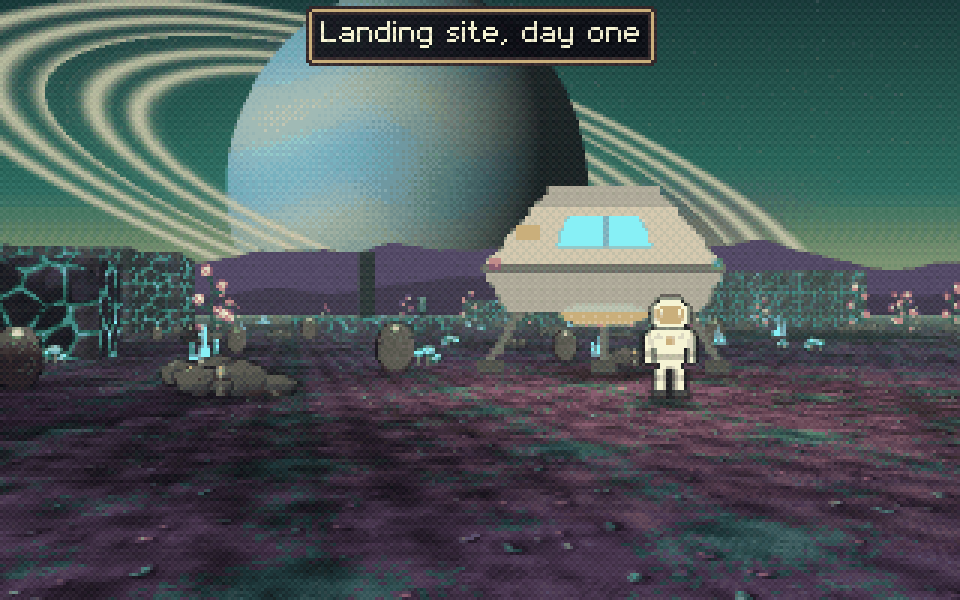
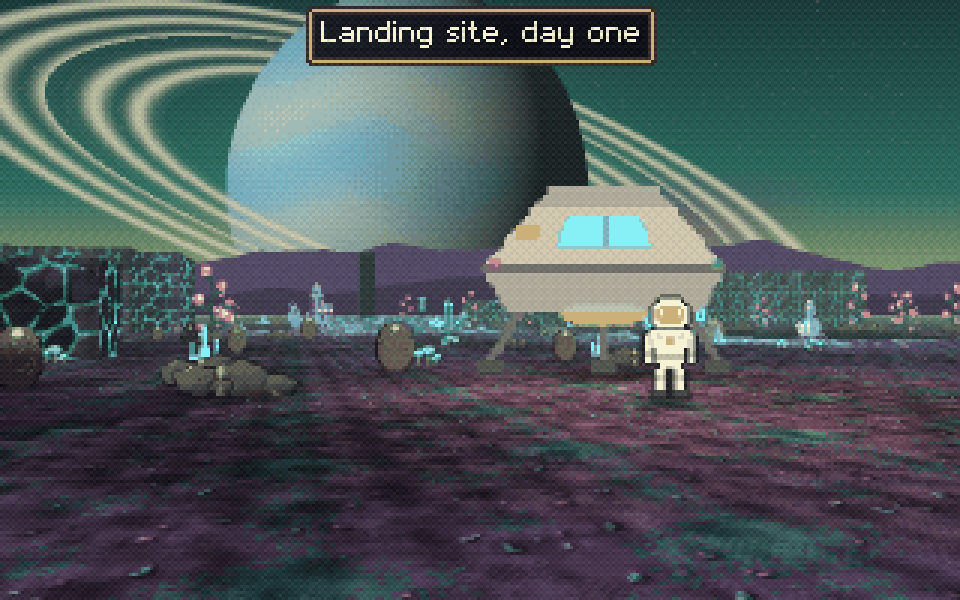
The alien world's crystals in 3D, framing the monolith
The alien landing site's two billboard crystals by the glowing pool are
crystal clusters in 3D now, cyan and violet, and two more stand at the
foot of the monolith's plateau - the monolith shot is framed by them,
their light on the step, every facet bending the view behind it.

Changed region(s): [[0.2188, 0.48, 0.6875, 0.57], [0.7188, 0.51, 1.0, 0.6]]

diff --git a/examples/alien_world.py b/examples/alien_world.py
@@ -2,7 +2,8 @@
 
 Shows the `alien` sky with `sky_objects` (a ringed gas giant and two moons), an alien sun casting
 long shadows, a purple mountain skyline, glowing `alien_rock` outcrops, a reflective pool, the
-`alien` scatter set, and a raised plateau with steps (`heights`) carrying a monolith.
+`alien` scatter set, and a raised plateau with steps (`heights`) carrying a monolith; crystals in 3D
+(`crystal_cluster` objects) by the glowing pool and flanking the plateau's step, bending the light.
 Run:  python alien_world.py  -> writes alien_world.json
 """
 import os
@@ -62,8 +63,11 @@ s = scene(
         {'id': 'native', 'x': 15.2, 'y': 12.3, 'type': 'alien'},
         {'x': 19.4, 'y': 18.4, 'type': 'alien_plant'}, {'x': 25.8, 'y': 21.0, 'type': 'alien_plant', 'scale': 1.2},
         {'x': 24.4, 'y': 17.4, 'type': 'alien_plant', 'scale': 0.8, 'flip': True},
-        {'x': 20.0, 'y': 23.4, 'type': 'crystal', 'scale': 0.5}, {'x': 18.8, 'y': 21.2, 'type': 'crystal'},
     ],
+    # crystals in 3D, every facet bending the light: by the glowing pool, and flanking the plateau's step
+    objects=[{'type': 'crystal_cluster', 'x': x, 'y': y, 'color': c, 'size': sz, 'count': n, 'seed': k}
+             for k, (x, y, c, sz, n) in enumerate(((19.0, 21.4, 'cyan', 1.3, 6), (20.4, 23.7, 'violet', 0.8, 4),
+                                                   (11.7, 15.1, 'violet', 1.4, 7), (15.4, 15.2, 'cyan', 1.0, 5)))],
     scatter=[{'of': 'alien', 'on': '.', 'density': 0.16, 'clump': 1.4, 'sizes': ['small', 'medium', 'large'],
               'seed': 6}],
     camera={'x': 11.0, 'y': 34.0, 'look_at': [15.0, 20.0, 0.8], 'fov': 72},

diff --git a/docs/ASSETS.md b/docs/ASSETS.md
@@ -915,7 +915,7 @@ Things too big for a billboard, built in 3D out of flat panels (`scripts/objects
 | `boulder` | good | aquarium, autumn_lane, coast_lighthouse, crystal_cave, kelp_forest, misty_moor, neon_bar, red_canyon, winter_lake, winter_woods, woodland_night | A low-poly mass, every face a triangle: an irregular foot, a belly, drawn-in shoulders, a peak off its centre; closed from every side. Plants on top by count. |
 | `column` | good | ancient_ruins, castle_keep, cathedral_ruin, gold_mine, hall_of_doors, sky_islands, temple_inside, tropical_beach | A column or a post: a prism of `sides` faces (an octagon by default), tapering if `top` is under 1, a plinth (`base`) and a capital if asked; stone cut from the solid rock as rock is, or `wood` - weathered timber, the grain running up it, dark and grown over below `wet` where it stands in water. Built for the pier's piles first; the cathedral's piers are `ashlar` (dressed stone in drums) with plinths and capitals, one `broken` off ragged. The ruins' columns are Greek: `flutes` (20 faces, each hollowed, so it takes the light on one side and shadow on the other) and `doric` (an echinus widening under a square abacus), in `marble` laid in drums; `fill` lifts a backlit column's dark side. |
 | `beam` | good | ancient_ruins, castle_keep, cathedral_ruin, drowned_library, gold_mine, hall_of_doors, sky_islands, temple_inside | A squared timber or stone lintel lying level, `length` along the way it faces, its underside at the placement's `z`; timber's grain runs along it. Wall plates on the cathedral's piers, and one fallen on the floor; the architraves and cornices over the ruins' columns. |
-| `crystal_cluster` | good | crystal_cave | The user's idea: crystals whose facets refract. Hexagonal prisms with pointed tips from a bed of rock, every facet a panel with its own clarity (clear across the middle, milky toward the base, bright edges) and its own bend: drawn with the glass, each facet shows the frame drawn so far shifted by one offset from the way it is turned (Renderer._bend), so it shows one coherent piece of what is behind, the colours parting a little at the edges. Strongest with glowing things behind. |
+| `crystal_cluster` | good | alien_world, crystal_cave | The user's idea: crystals whose facets refract. Hexagonal prisms with pointed tips from a bed of rock, every facet a panel with its own clarity (clear across the middle, milky toward the base, bright edges) and its own bend: drawn with the glass, each facet shows the frame drawn so far shifted by one offset from the way it is turned (Renderer._bend), so it shows one coherent piece of what is behind, the colours parting a little at the edges. Strongest with glowing things behind. |
 
 ### Not yet sorted
 
@@ -1115,7 +1115,7 @@ The environments, judged on their gallery images and shots.
 | `space_station` | good | 3 | station_deck, station_corridor |  |
 | `derelict_ship` | good | 3 | derelict_corridor, derelict_hive |  |
 | `orbital_hangar` | good | 4 | hangar_bay, hangar_control, hangar_reactor, hangar_pilot | A shuttle bay in orbit, its control room and the reactor: the scifi.py hardware, glass panes between mullions onto space and a ringed planet, a window onto the bay, cyan haze and red alarm light. |
-| `alien_world` | good | 3 | alien_landing, alien_monolith |  |
+| `alien_world` | good | 3 | alien_landing, alien_monolith | Its two billboard crystals are `crystal_cluster`s in 3D now, with two more flanking the plateau: the monolith shot is framed in violet and cyan crystal. |
 | `moon_base` | good | 4 | moon_base, moon_rover, moon_night, moon_earth | Greenhouse domes and habitat modules on the grey plain under the Earth: day, the rover, the lunar night, Earthrise over the domes. |
 | `dream_world` | good | 3 | dream_stair, dream_mirror | Islands in a pastel sky, each with a `keel` of rock in 3D under its cliff; the stair shot is taken from out over the void, so the island floats; chess pieces in 3D on the chequered island. |
 | `dream_chess` | good | 4 | dream_plain, dream_door, dream_hole, dream_clock | A giant chess game in 3D (`chess_piece`, polished white and black marble, mirrored in the floor) on a floating plain of checker_marble under a melting sky clock: arches and stairs in the air, a stair up to a lone door, a hole onto the sky. |
@@ -1159,6 +1159,7 @@ The environments, judged on their gallery images and shots.
 ## Pass log
 
 - **2026-10-19, pass 0.** First full review of every asset, on review sheets and in the gallery. This file and `docs/asset_review.py` were added.
+- **2026-10-21, alien crystals.** The alien world's two billboard crystals by the glowing pool became `crystal_cluster`s in 3D, cyan and violet, and two more stand at the foot of the plateau's step - the monolith shot is framed by them, their light on the step, every facet bending the view. (The waterway's rowboat was tried as a small `ship_hull` and kept as the billboard: seen at that distance the drawn boat, oars and all, reads better.)
 - **2026-10-21, the great hall.** The castle's throne room had square pillars of wall cells, out of both gallery shots. They are round now - 12-sided `column`s of `ashlar` with bases and capitals - with timber `beam`s across the hall over them under the ceiling; the throne shot is kept as it was, and a new one, `castle_hall`, from the hall's foot, has the pillars and beams framing the throne (the castle has no scatter, so a new shot moves nothing).
 - **2026-10-21, the cabin on the ice.** The winter lake's cabin, a flat-topped box, wears a roof under snow (`snow` cover, new: `_snow_roof` - drifts, the shingles at the ridge, a lip at the eave) with grey wood smoke rising from its chimney, and the blocks round the shore are `boulder`s of `snow` rock; a new shot, `winter_cabin`, close by day, turned by angle and pitch so the scatter stays. The window lamps lit the roof's top in scallops - the lamps' light is mapped on the floor, so anything over them takes it all - so a roof's top takes a quarter of it (`dyn` on a panel, `ROOF_LAMPS`): the village's inn at night and the ghost town at dusk have darker, moonlit roofs over their lit fronts.
 - **2026-10-21, roofs for the old houses.** The haunted house and the churchyard chapel were flat-topped boxes - the village's fault, the user's word was 'roofless'. Both have steep roofs of `slate` in 3D (a new cover: dark blue-grey, narrow courses): the house's with two brick chimneys (`chimney` takes a list; chimneys grow stouter on a bigger roof) and the tower's own gable, the chapel's with its front gable in pale stone (`ends`, new: gable ends of a rock kind). Inside, the ceilings hide the roofs: the interior shots are unchanged to the pixel.
